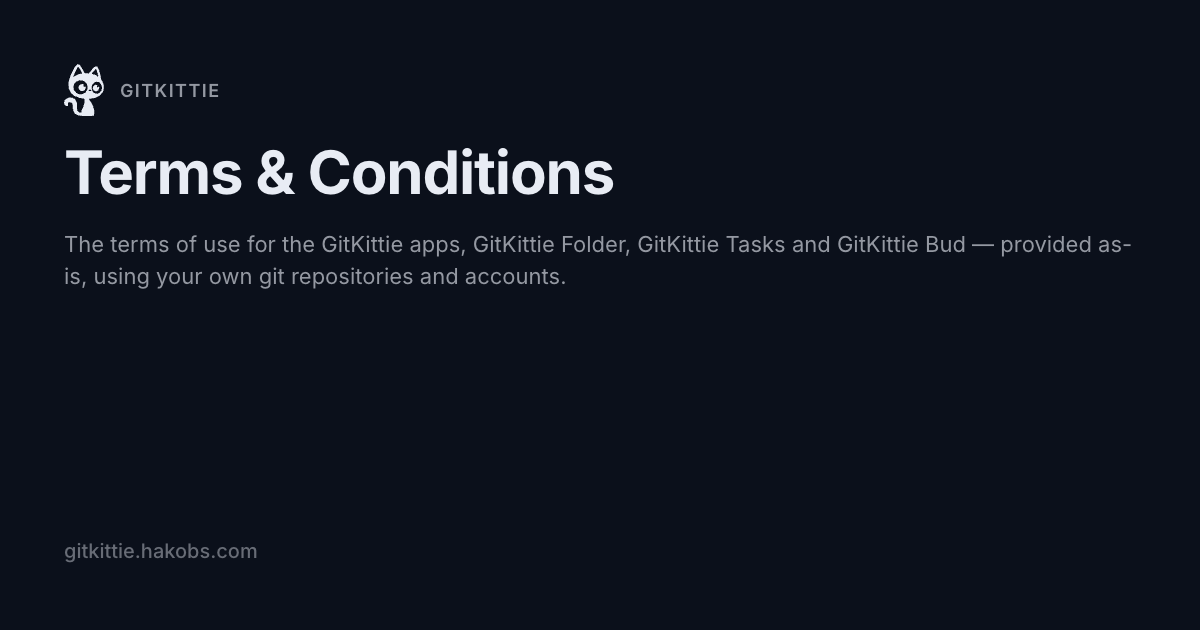
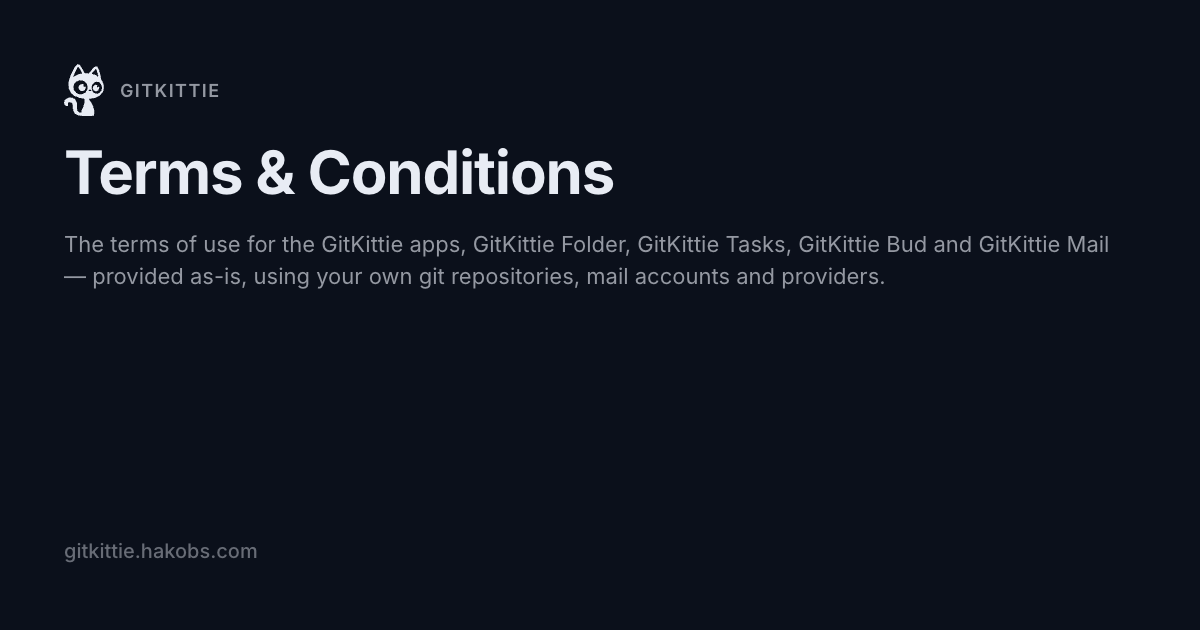
docs(website): cover GitKittie Mail in privacy, terms and support
The privacy policy states what Mail does today: it talks to the user's
provider over TLS and nothing else on its own, keeps the password in the
device Keychain, stores mail as files, sorts on the device, and reaches
other servers only for remote images, links and unsubscribe requests the
user approves. CloudKit sync of spaces and rules is named as not built
(GKM-026), with a promise to describe it before it ships.

The terms add the user's mail provider, delivery, sorting and cleanup.
Support explains account setup and says Mail is not out yet.

Changed region(s): [[0.0617, 0.3619, 0.925, 0.4524]]

diff --git a/apps/website/src/pages/SupportPage.vue b/apps/website/src/pages/SupportPage.vue
@@ -25,6 +25,13 @@ interface SupportContent {
   }
   tasks: { heading: string; title: string; body: string; action: string }
   bud: { heading: string; title: string; body: string; action: string }
+  mail: {
+    heading: string
+    title: string
+    body: string
+    setup: { title: string; steps: StepItem[] }
+    action: string
+  }
   stillStuck: { title: string; body: string; action: string }
 }
 
@@ -104,6 +111,32 @@ function marker(i: number): string {
             <Markdown class="support__prose" tag="div" :content="t.bud.body" />
             <div class="mkt__actions support__actions">
               <ArlezSupport :label="t.bud.action" />
+            </div>
+          </div>
+        </div>
+      </section>
+
+      <!-- GitKittie Mail -->
+      <section class="support__app" data-app="mail">
+        <div class="mkt__container support__app-inner">
+          <h2 class="support__app-heading">{{ t.mail.heading }}</h2>
+          <div class="support__group">
+            <h3 class="mkt__heading">{{ t.mail.title }}</h3>
+            <Markdown class="support__prose" tag="div" :content="t.mail.body" />
+            <div class="mkt__actions support__actions">
+              <ArlezSupport :label="t.mail.action" />
+            </div>
+          </div>
+
+          <div class="support__group">
+            <h3 class="mkt__heading">{{ t.mail.setup.title }}</h3>
+            <div class="mkt__rows">
+              <div v-for="item in t.mail.setup.steps" :key="item.title" class="mkt__row">
+                <h4 class="support__item-title">{{ item.title }}</h4>
+                <div class="mkt__row-body">
+                  <Markdown class="support__prose" tag="div" :content="item.desc" />
+                </div>
+              </div>
             </div>
           </div>
         </div>

diff --git a/apps/website/src/pages/TermsPage.vue b/apps/website/src/pages/TermsPage.vue
@@ -22,6 +22,6 @@ const body = usePageMarkdown('terms')
 
 <template>
   <MarketingLayout>
-    <LegalDoc title="Terms &amp; Conditions" updated="July 2026" :content="body" />
+    <LegalDoc title="Terms &amp; Conditions" updated="November 2026" :content="body" />
   </MarketingLayout>
 </template>

diff --git a/apps/website/src/pages/PrivacyPage.vue b/apps/website/src/pages/PrivacyPage.vue
@@ -22,6 +22,6 @@ const body = usePageMarkdown('privacy')
 
 <template>
   <MarketingLayout>
-    <LegalDoc title="Privacy Policy" updated="July 2026" :content="body" />
+    <LegalDoc title="Privacy Policy" updated="November 2026" :content="body" />
   </MarketingLayout>
 </template>

diff --git a/apps/website/src/i18n/pages/en/privacy.md b/apps/website/src/i18n/pages/en/privacy.md
@@ -1,4 +1,6 @@
-This policy covers the GitKittie apps — **GitKittie Folder**, **GitKittie Tasks** and **GitKittie Bud**. All are local-first apps for Mac, iPhone and iPad. They are designed so that your files never pass through GitKittie servers. The one GitKittie service that exists, the optional live-updates relay described below, never receives file contents.
+This policy covers the GitKittie apps — **GitKittie Folder**, **GitKittie Tasks**, **GitKittie Bud** and **GitKittie Mail**. All are local-first apps for Mac, iPhone and iPad. They are designed so that your files and your mail never pass through GitKittie servers. The one GitKittie service that exists, the optional live-updates relay in GitKittie Tasks described below, never receives file contents.
+
+GitKittie Mail works with a mail account rather than a git repository, so it has [its own section](#gitkittie-mail) below. Everything under "No GitKittie account", "No data collection or telemetry" and "When you contact support" applies to it as well.
 
 ## No cloud service
 
@@ -14,7 +16,7 @@ The apps do not collect, transmit, or store any personal data on GitKittie serve
 
 ## Local data
 
-Configuration (folder paths, repository URLs, sync intervals, board settings) is stored locally on your device. Access tokens are stored in the system Keychain, not in a plain config file.
+Configuration (folder paths, repository URLs, sync intervals, board settings) is stored locally on your device. Access tokens and passwords are stored in the system Keychain, not in a plain config file.
 
 ## AI features are opt-in and use your own key
 
@@ -47,6 +49,52 @@ Your selected folder or board contents are transmitted directly from your Mac to
 ## When you contact support
 
 Support runs on [Arlez](https://arlez.app), a separate product by the same author. Nothing is sent unless you choose to send it. When you do submit a message, what leaves your device is what you typed, an optional email address if you want a reply, and which app and version the message came from — enough to reproduce the problem and route the answer back. It is used to answer you, and for nothing else.
+
+## GitKittie Mail
+
+GitKittie Mail is in development and not on the App Store yet. This section describes the app as it is built today, and will be updated before it ships and whenever what it does with your data changes.
+
+### Your mail goes between your device and your provider only
+
+Mail connects directly to the mail provider you add — iCloud Mail, or any standard IMAP and SMTP account — over encrypted connections (TLS), and to nothing else on its own. There is no GitKittie server in between, no GitKittie account, and no copy of your mail anywhere GitKittie can read. Your provider stays in charge of your mailbox, and what it does with your mail is governed by its own privacy policy.
+
+### Your password stays in the Keychain
+
+The password or app-specific password for each account is stored in the system Keychain on that device only. It is never written to a file, a backup of the mail folder, an export, or a log. Server settings (host names, ports, user names) are stored in your mail folder, without the password, so the same account can be set up on another device by signing in there.
+
+### Your mail is stored as files on your device
+
+Each message is stored as its original `.eml` file, with a readable Markdown copy beside it, in a mail folder on your device. On the Mac that is a folder inside the app's own container unless you choose another; on iPhone and iPad it is the app's folder, which you can see in the Files app. Drafts, spaces and your attachments are files there too.
+
+The search index, the app's cache, and its record of what it has fetched from your provider are kept separately, in the app's private storage on that device. They can be rebuilt from your mail folder and your provider.
+
+These files are included in your device's backups (Time Machine, iCloud Backup or another backup tool) like your other files, unless you exclude them. If you choose a mail folder of your own, other apps and sync tools that can read that folder can read your mail, and the app says so when you choose it. If that folder is synced — for example in iCloud Drive, or one GitKittie Folder pushes to git — that service receives copies of your mail.
+
+### Sorting and search happen on your device
+
+Mail sorts messages into Focused, Transactions, Updates, Subscriptions, Promotions and Quarantine with rules that run on your device. No message, sender or address is sent to GitKittie or to an AI service to do this. Your corrections, sender rules, spaces, notification choices and remote-image choices are stored on your device.
+
+Text in PDF attachments is read on your device so that search can find it.
+
+### When something in a message reaches the internet
+
+Mail never contacts anything a message points to by itself. Only these actions, each one yours, reach a server other than your provider:
+
+- **Remote images.** They are blocked by default. If you choose to load them for a message or a sender, they are fetched from wherever the sender hosts them, which tells that server that the message was opened. Tracking pixels are never loaded, even then.
+- **Links.** A link opens in your browser only when you click it and confirm its destination.
+- **Unsubscribing.** When you approve an unsubscribe request, the app sends the one request the mailing list asked for, to the address it published, with no cookies; or, for lists that unsubscribe by email, it sends that email from your own account after showing it to you. The app keeps a record of the request on your device to tell you whether the mail stopped.
+
+### Notifications
+
+Notifications for new mail are made on your device by the app and show the sender and the subject. They do not go through any GitKittie server.
+
+### Not built yet: sync between your devices
+
+A later version will sync your spaces, rules and corrections between your devices through your own private iCloud database (CloudKit), and never the messages themselves. That is not in the app today: everything above stays on the device where you set it. This policy will say exactly what is synced, which parts are encrypted, and what Apple can see, before that ships.
+
+### When you remove an account or the app
+
+Removing an account lets you keep, export or remove its local mail, and deletes its password from the Keychain. On iPhone and iPad, deleting the app deletes its mail folder and everything else it stored. On the Mac, a mail folder you chose stays where you put it.
 
 ## Contact
 

diff --git a/apps/website/src/i18n/pages/en/terms.md b/apps/website/src/i18n/pages/en/terms.md
@@ -1,4 +1,4 @@
-These terms govern your use of the GitKittie apps — **GitKittie Folder**, **GitKittie Tasks** and **GitKittie Bud** (the "Software"). By downloading or using the Software you agree to these terms. Purchases and downloads made through the Mac App Store are additionally subject to Apple's terms.
+These terms govern your use of the GitKittie apps — **GitKittie Folder**, **GitKittie Tasks**, **GitKittie Bud** and **GitKittie Mail** (the "Software"). By downloading or using the Software you agree to these terms. Purchases and downloads made through the Mac App Store are additionally subject to Apple's terms.
 
 ## Licence
 
@@ -8,13 +8,25 @@ You are granted a personal, non-exclusive, non-transferable licence to install a
 
 The Software operates on git repositories and hosting accounts (such as GitHub) that you own and control. You are responsible for your credentials, for the content you store, and for complying with the terms of your git host. GitKittie is not a party to your relationship with your git host.
 
+## Your mail accounts
+
+GitKittie Mail operates on mail accounts you own or are allowed to use, with a provider such as iCloud Mail or another IMAP service. You are responsible for your credentials, for the mail you send, and for complying with your provider's terms and sending limits. GitKittie is not a party to your relationship with your mail provider, and your provider remains in charge of your mailbox: it decides what is delivered, what is kept, and what is deleted.
+
 ## Your data
 
-The Software is local-first and does not store your files on GitKittie servers. You are responsible for maintaining your own backups. Because commits are pushed to your repositories, standard git history and your host's protections apply to your data.
+The Software is local-first and does not store your files or your mail on GitKittie servers. You are responsible for maintaining your own backups. Because commits are pushed to your repositories, standard git history and your host's protections apply to your data. GitKittie Mail keeps a copy of your mail as files on your device; that copy is yours to keep, back up, move or delete, and it is not a substitute for a backup.
 
 ## Rewriting history
 
 GitKittie Bud can rewrite git history — rebasing, squashing, reordering, and removing files from past commits — and can push those rewrites to your remote. These operations change history that other people may already have, and force-pushing can discard work. The Software previews rewrites and creates a safety reference before running them, but you remain responsible for what you confirm and push, and for coordinating with anyone else working in the repository.
+
+## Sending, sorting and cleaning up mail
+
+GitKittie Mail hands outgoing mail to your provider and shows you what it knows about each send. It cannot guarantee that a message is delivered, or when, because delivery is up to your provider and the recipient's. When a send's outcome is unclear, the app does not send it again on its own; it is up to you to decide.
+
+Sorting mail into Focused and other views is done by rules and can be wrong. Check the other views for mail you expect. Sorting never moves or deletes mail at your provider by itself. Actions that do — archiving, moving, deleting, sender rules that archive, and cleanup batches — run only when you confirm them, show what they will change first, and can be undone in the app; deleting from Trash and actions your provider carries out on its own may not be undoable.
+
+Unsubscribing sends a request to the sender of a mailing list. Whether the sender honours it is up to them.
 
 ## Third-party AI providers
 
